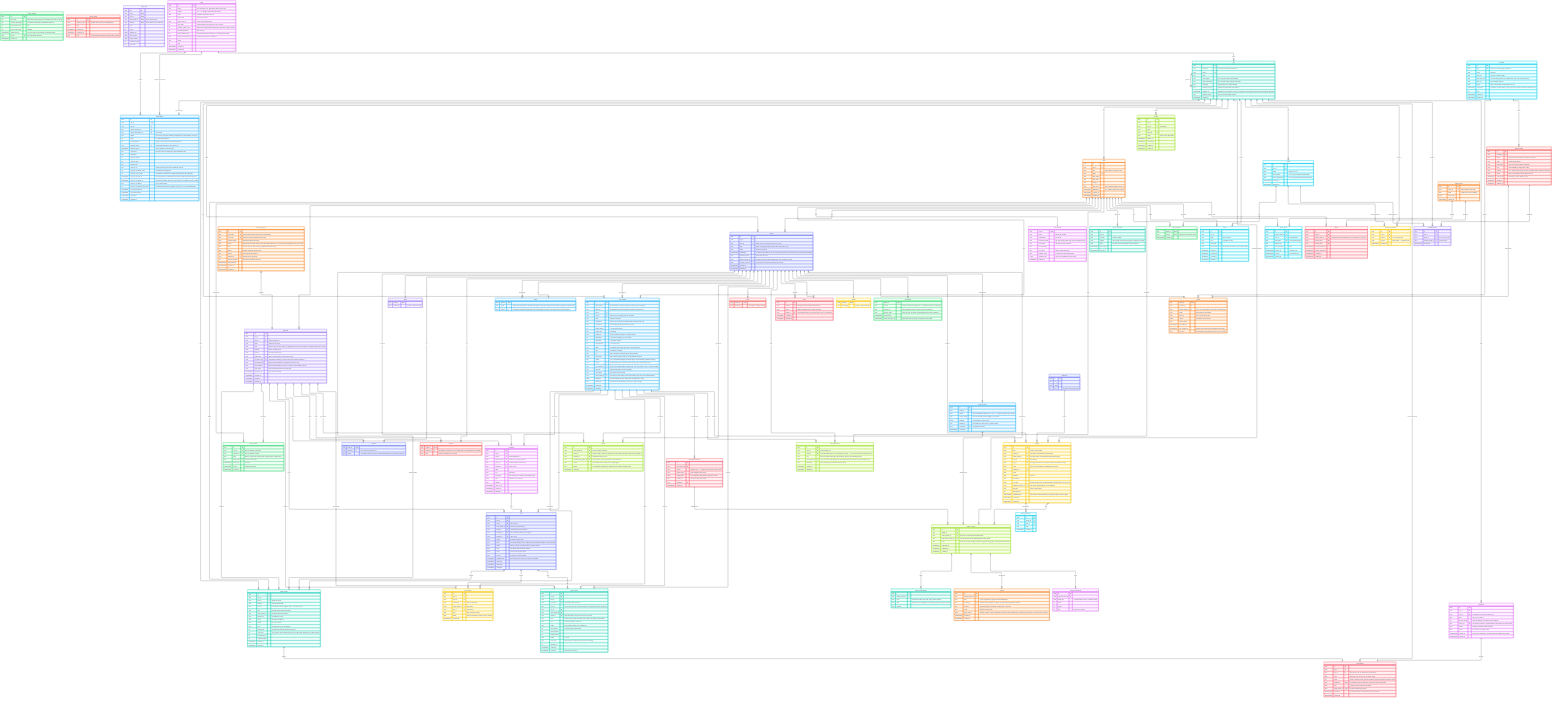
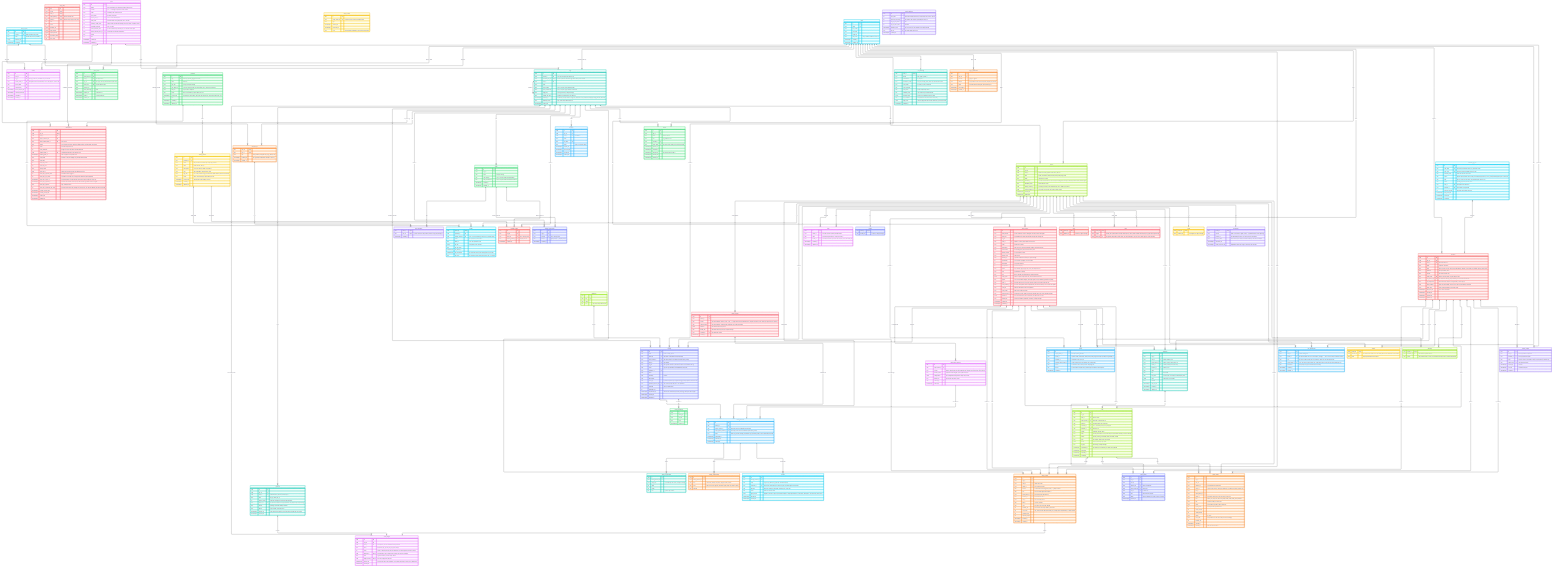
Memberships drawn: a person belongs to orgs through memberships (role and disabled per org), everyone has a Personal org, tokens and one-time codes carry the org picked at Allow, seats count memberships, invites can be declined; the data model diagram renders again

diff --git a/server/docs/architecture.md b/server/docs/architecture.md
@@ -320,10 +320,12 @@ The rule: the data model is drawn here first, then built. Database `glyphh`. Eve
 erDiagram
     plans ||--o{ orgs : "limits"
     orgs ||--o{ orgs : "parent of"
-    orgs ||--o{ users : "has"
+    orgs ||--o{ memberships : "has"
+    users ||--o{ memberships : "belongs through"
+    users ||--o| orgs : "has a Personal org"
     orgs ||--o{ teams : "has"
     teams ||--o{ team_members : "has"
-    users ||--o{ team_members : "is in"
+    memberships ||--o{ team_members : "is in"
     orgs ||--o{ allowed_models : "limits to"
     teams ||--o{ allowed_models : "limits further to"
     catalog_models ||--o{ allowed_models : "allowed as"
@@ -417,6 +419,7 @@ erDiagram
     orgs {
         uuid id PK
         uuid parent_id FK "null only for Glyphh, the parent org"
+        uuid personal_user_id FK, UK "set for a person's Personal org: theirs alone, never shared"
         uuid plan_id FK
         text name
         bool limit_models "true = only the org's allowed models"
@@ -430,7 +433,7 @@ erDiagram
 
     team_members {
         uuid team_id PK, FK
-        uuid user_id PK, FK "a person can be in many teams"
+        uuid user_id PK, FK "a person can be in many teams, each in an org they belong to"
         timestamptz created_at
     }
 
@@ -460,16 +463,21 @@ erDiagram
         timestamptz created_at
     }
 
+    memberships {
+        uuid user_id PK, FK
+        uuid org_id PK, FK
+        text role "super_admin (in Glyphh only) | org_admin | user"
+        timestamptz disabled_at "an org admin disabled the member in this org"
+        timestamptz created_at
+    }
+
     users {
         uuid id PK
-        uuid org_id FK
-        text role "super_admin | org_admin | user"
         text email UK
         text first_name
         text last_name
         text image_url
         text time_zone "every schedule reads its cron in it"
-        timestamptz disabled_at "an org admin disabled the member"
         timestamptz created_at
         timestamptz updated_at
     }
@@ -485,7 +493,7 @@ erDiagram
         bool sandbox_strict "runs reach only the allowed hosts"
         text[] allowed_hosts "hosts every sandboxed run may reach"
         bool rail_collapsed "the platform's left rail shown as icons only"
-        jsonb page_sizes "rows per page each list was last shown at, by list: {\"usage-log\": 50}"
+        jsonb page_sizes "rows per page each list was last shown at, by the list's name"
         timestamptz updated_at
     }
 
@@ -817,6 +825,7 @@ erDiagram
         text token_hash UK "the invite link's token; only the hash is kept"
         timestamptz expires_at
         timestamptz accepted_at
+        timestamptz declined_at "the invited person said no"
         timestamptz revoked_at
         timestamptz created_at
     }
@@ -891,6 +900,7 @@ erDiagram
         uuid id PK
         uuid oauth_client_id FK
         uuid user_id FK "who approved it"
+        uuid org_id FK "the org it acts in, picked at Allow (Use with)"
         text code_hash UK "only the hash is kept"
         text redirect_uri
         text code_challenge "PKCE"
@@ -934,6 +944,7 @@ erDiagram
     tokens {
         uuid id PK
         uuid user_id FK
+        uuid org_id FK "the org it acts in; a member of it, or refused"
         uuid oauth_client_id FK "the agent host it was issued to; null = the player or rrotor's UI"
         text access_hash UK
         text refresh_hash UK
@@ -1099,6 +1110,17 @@ These are a first pick (2026-10-11), to adjust. **Every number lives in the data
 An org that already has its included machines plus its extras cannot register another: signing in from one more machine is refused with the reason (on Free: "Free includes 2 machines. Upgrade, or remove one."), and nothing is half registered.
 
 Left behind from the old server: the margin and the dollar pool, the rate limits, the SSO and governance flags, the price history, and the machine terms. Beyond which models and connections users may add, Glyphh governs nothing: spend and rate limits belong to an AI gateway the customer puts in front of their models.
+
+### Memberships: many orgs per person
+
+Decided 2026-10-11 (built 2026-10-12). A person belongs to orgs through **memberships**, one per org, each with its role and its own disabled mark:
+
+- **Everyone has a Personal org** (`orgs.personal_user_id`), made at their first sign-in on Free, where they are the org admin. It is theirs alone: nobody is invited to it, and it is never left.
+- **An invite adds a membership** to the invite's org; the person keeps their Personal org and any others. Leaving or being removed from an org deletes that membership only.
+- **A token acts in one org** (`tokens.org_id`): an agent host's is the org picked at Allow ("Use with": Personal or any org the person belongs to, with its machine count), the platform's is the org chosen in the account menu. Every request is scoped to that org, and a membership disabled or removed stops its tokens at once.
+- **Seats count memberships:** a seat is an active membership, so the database's seat check counts memberships and open invites in the org.
+- **Super admins** are members of Glyphh with the role super_admin.
+- **An invite can be declined** (`invites.declined_at`) by the signed-in person it was sent to.
 
 ### users
 
@@ -1359,7 +1381,6 @@ None open (2026-10-12).
 
 - **Opening a machine:** the screens for a launch ticket that worked, one that expired or was used, a machine that is offline or waking, the wrong account, and a session that ran out (back through app.glyphh.ai for a new ticket).
 
-- **Many orgs per person** (decided 2026-10-11): everyone has a Personal org plus any orgs they join; a memberships table (person × org × role); the host picks the org at Allow ("Use with"); tokens carry the chosen org; seats count memberships; an invite adds a membership instead of moving the person; a person can be in many teams in each org they belong to (2026-10-11).
 - **The rrotor definition:** what a super power's definition holds (its workflows, pipelines and screens), and how its screens are laid out inside Glyphh's UI. Decided: each super power's data in rrotor's Postgres is its own schema, reached by its own database role and nothing else (2026-10-11).
 - **Folder edits:** how edits made in a power's folder on a machine get back to the server. Not needed until rrotor is built.
 
